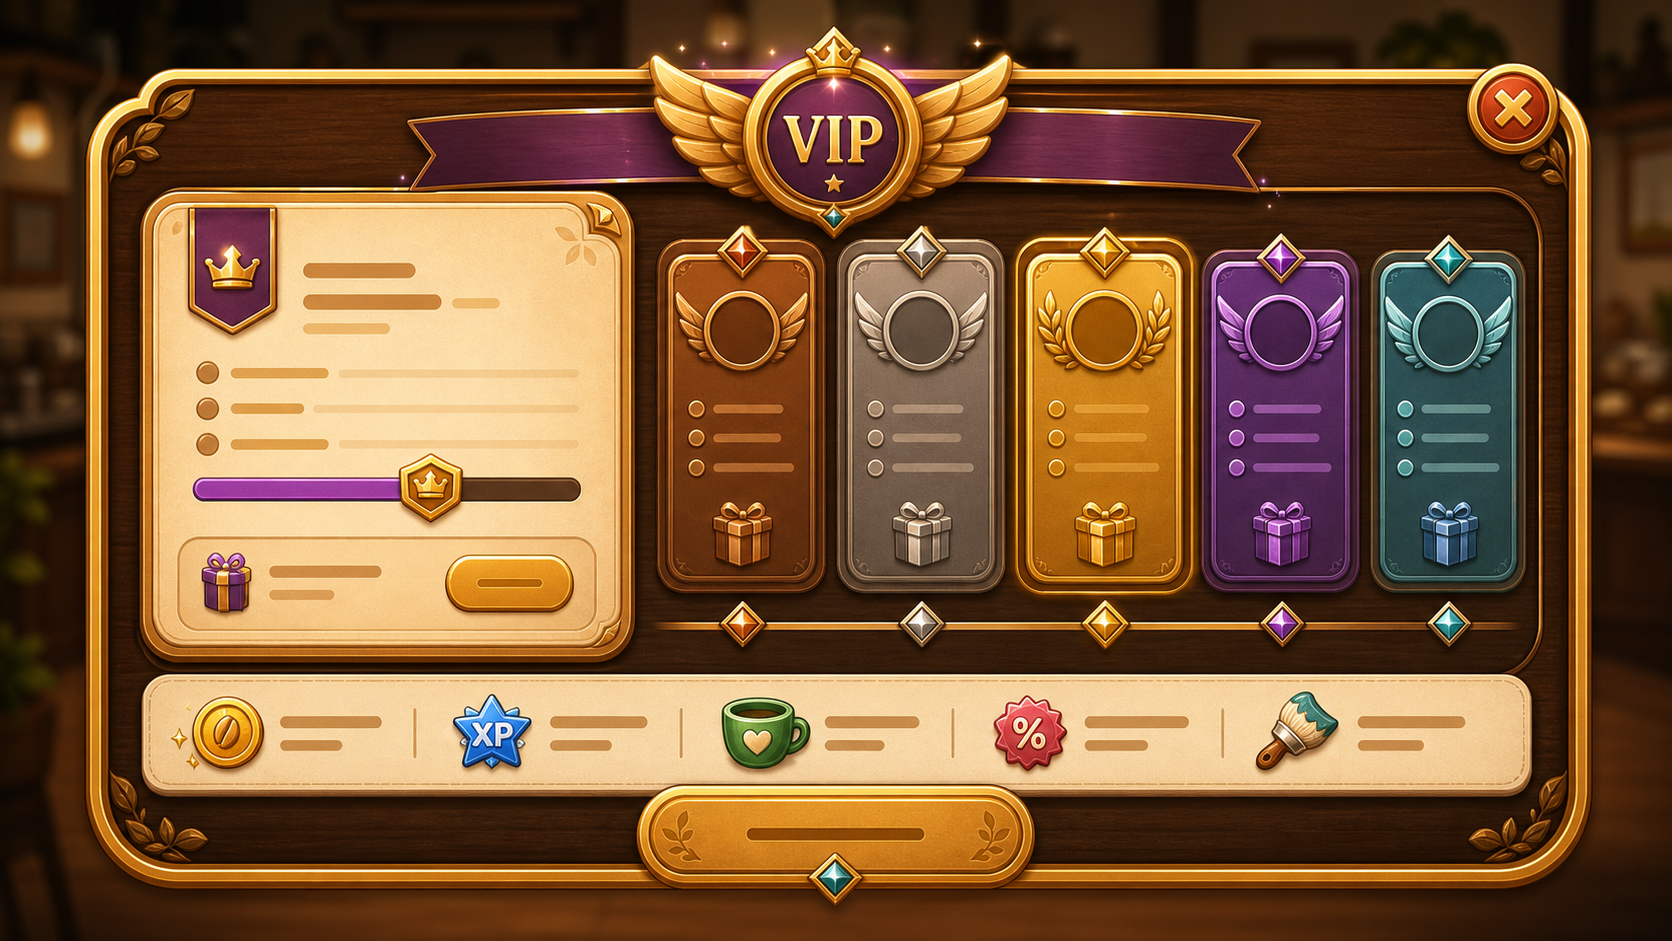
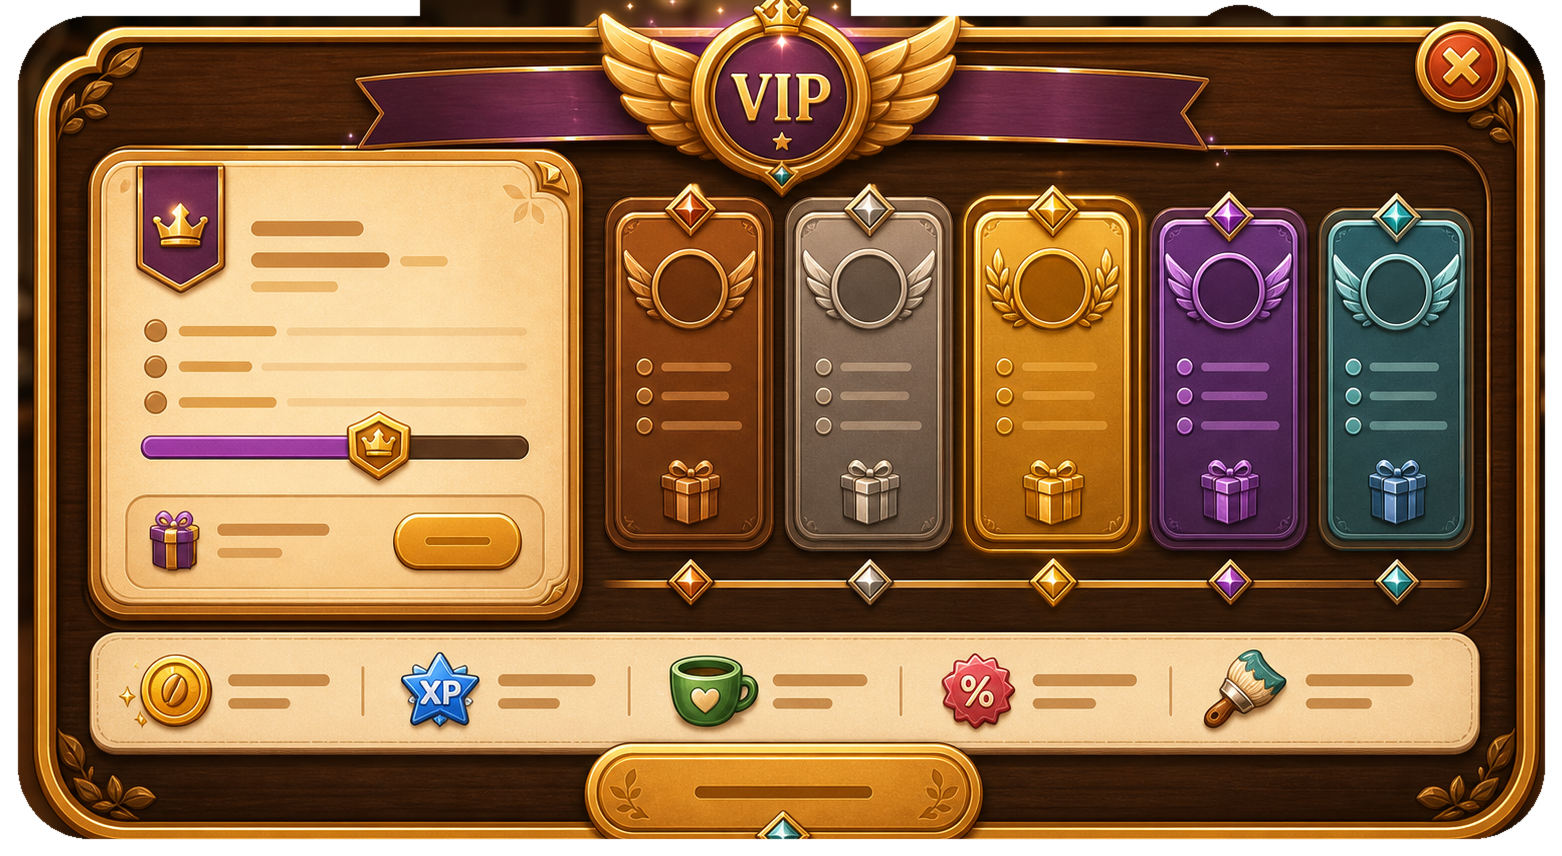
Clean VIP panel frame and align tier cards

diff --git a/Assets/GameManager.cs b/Assets/GameManager.cs
@@ -3016,7 +3016,7 @@ public class GameManager : MonoBehaviour
         panelRect.anchorMin = new Vector2(0.5f, 0.5f);
         panelRect.anchorMax = new Vector2(0.5f, 0.5f);
         panelRect.anchoredPosition = new Vector2(0, 0);
-        panelRect.sizeDelta = new Vector2(1320, 742);
+        panelRect.sizeDelta = new Vector2(1320, 724);
 
         Image panelImage = vipPanel.GetComponent<Image>();
         panelImage.sprite = GetVipPanelBackgroundSprite();
@@ -3074,19 +3074,22 @@ public class GameManager : MonoBehaviour
         rect.anchorMin = new Vector2(0.5f, 0.5f);
         rect.anchorMax = new Vector2(0.5f, 0.5f);
         rect.anchoredPosition = position;
-        rect.sizeDelta = textOnly ? new Vector2(118, 250) : new Vector2(178, 330);
+        rect.sizeDelta = textOnly ? new Vector2(132, 262) : new Vector2(178, 330);
 
         Image image = cardObject.GetComponent<Image>();
-        image.color = textOnly ? new Color(1f, 1f, 1f, 0f) : GetVipTierColor(level);
+        image.sprite = textOnly ? CreateResourceBarBackgroundSprite(rect.sizeDelta, GetVipTierColor(level), new Color(1f, 0.82f, 0.36f, 0.55f)) : null;
+        image.color = textOnly ? new Color(1f, 1f, 1f, 0.64f) : GetVipTierColor(level);
         image.raycastTarget = false;
-        if (!textOnly)
-        {
-            vipLevelCardImages.Add(image);
-        }
+        vipLevelCardImages.Add(image);
 
         if (!textOnly)
         {
             CreatePanelStrip(cardObject.transform, "TopShine", new Vector2(0, 144), new Vector2(146, 8), new Color(1f, 1f, 1f, 0.18f));
+        }
+        else
+        {
+            CreatePanelStrip(cardObject.transform, "TopGem", new Vector2(0, 134), new Vector2(26, 26), new Color(1f, 0.82f, 0.30f, 0.65f));
+            CreatePanelStrip(cardObject.transform, "GiftBase", new Vector2(0, -102), new Vector2(38, 30), new Color(1f, 0.70f, 0.24f, 0.48f));
         }
 
         TMP_Text text = CreateText(cardObject.transform, "Text", "", textOnly ? new Vector2(0, -8) : new Vector2(0, -8), textOnly ? new Vector2(106, 210) : new Vector2(148, 286), textOnly ? 15 : 17);
@@ -3105,8 +3108,8 @@ public class GameManager : MonoBehaviour
             RectTransform lockRect = lockObject.GetComponent<RectTransform>();
             lockRect.anchorMin = new Vector2(0.5f, 0.5f);
             lockRect.anchorMax = new Vector2(0.5f, 0.5f);
-            lockRect.anchoredPosition = new Vector2(0, 54);
-            lockRect.sizeDelta = new Vector2(56, 56);
+            lockRect.anchoredPosition = new Vector2(0, 70);
+            lockRect.sizeDelta = new Vector2(46, 46);
 
             Image lockImage = lockObject.GetComponent<Image>();
             lockImage.sprite = GetVipLockIconSprite();
@@ -4308,7 +4311,7 @@ public class GameManager : MonoBehaviour
             {
                 bool locked = vipLevel < cardLevel;
                 vipLevelLockImages[i].gameObject.SetActive(locked);
-                vipLevelLockImages[i].color = new Color(1f, 1f, 1f, locked ? 0.86f : 0f);
+            vipLevelLockImages[i].color = new Color(1f, 1f, 1f, locked ? 0.62f : 0f);
             }
         }
 
